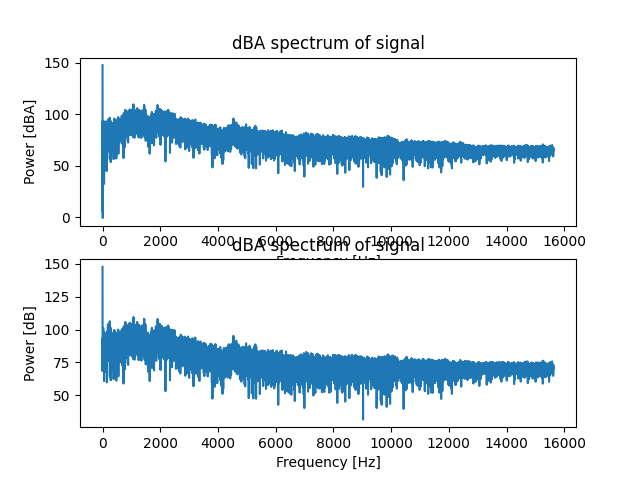
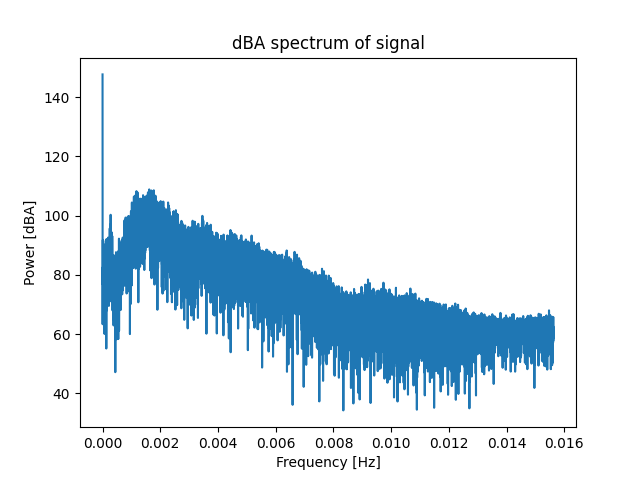
endringer

diff --git a/raspi_analyze_copy.py b/raspi_analyze_copy.py
@@ -253,6 +253,21 @@ def kalibrering(kalibreringsverdi, freq_vec, verdi):
    
     return verdi_kalib
 
+p0 = 20*10^-6
+def todB_num(verdi_rfft):
+    num_dB = (20*np.log10(np.abs(verdi_rfft)))
+   
+    return num_dB
+
+
+
+def ekvivalentnivå_mv0(måling_data, v0):
+    sum = 0
+    for i in range(0, len(måling_data)):
+        sum += (måling_data[i]/v0)**2
+    L = 10*np.log(1/len(måling_data) + sum)
+    return float(L)
+
 
 #plt.subplot(2, 1, 2)
 y = dBA(freq, spectrum, dBA_dict)
@@ -263,6 +278,7 @@ def plottName(name):
     return my_path
 # Figures out the absolute path for you in case your working directory moves around.
 
+'''
 plt.subplot(2, 1, 1)
 plt.title("dBA spectrum of signal")
 plt.xlabel("Frequency [Hz]")
@@ -279,6 +295,100 @@ plt.plot(freq, y2) # get the power spectrum
 plt.savefig(plottName('graph1'))
 
 plt.show()
+'''
+
+v0 = 0.02
+'''
+#antall_filer = 2
+#liste_filer = ['Lydfiler/lastebil.bin', 'Lydfiler/bil.bin']
+
+
+def plott(antall_filer, liste_filer):
+    tid = 0
+    tid_vec = []
+    y_db = 0
+    L = 0
+    L_eq = []
+    dBA_num = 0
+    for n in range(0, antall_filer):
+        print(liste_filer[n])
+        sample_period, data = raspi_import(liste_filer[n])
+        num_of_samples = data.shape[0]
+        freq = np.fft.rfftfreq(n=num_of_samples, d=sample_period)
+        spectrum = np.fft.rfft(data, axis=0) 
+        dBA_num = dBA(freq, spectrum, dBA_dict)
+        plt.title("dBA spectrum of signal")
+        plt.xlabel("Frequency [Hz]")
+        plt.ylabel("Power [dBA]")
+        plt.plot(freq, dBA_num)
+        plt.savefig(plottName('graph' + str(n)))
+        plt.show()
+        
+        #yy, yh = butter_bandpass_filter(x, 200, 800, 31250, order=8)
+        #specty= np.fft.rfft(yh, axis=0) 
+        T = num_of_samples * sample_period
+        L = ekvivalentnivå_mv0(data, v0)
+        
+        #L_kalib = kalibrering(2, freq, spectrum, dBA_dict)
+        tid += 1
+        tid_vec.append(tid)
+
+        print(L)
+        #a = plt.stem(tid, L)
+        L_eq.append(L)
+    
+    plt.plot(tid_vec, L_eq)
+    plt.show()
+
+plott(2, liste_filer) 
+
+'''
+directory = 'Lydfiler/'
+antall_filer = 0
+
+for filename in os.listdir(directory):
+    if filename.endswith(".bin"):
+        antall_filer += 1
+        tid = 0
+        tid_vec = []
+        y_db = 0
+        #L = 0
+        #L_eq = []
+        dBA_num = 0
+        
+        print(os.path.join("./Lydfiler", filename))
+        sample_period, data = raspi_import(os.path.join("./Lydfiler", filename))
+        num_of_samples = data.shape[0]
+        freq = np.fft.rfftfreq(n=num_of_samples, d=sample_period)
+        spectrum = np.fft.rfft(data, axis=0) 
+        dBA_num = dBA(freq, spectrum, dBA_dict)
+        plt.title("dBA spectrum of signal")
+        plt.xlabel("Frequency [Hz]")
+        plt.ylabel("Power [dBA]")
+        plt.plot(freq, dBA_num)
+        plt.savefig(plottName('graph' + str(antall_filer)))
+        plt.show()
+    
+        #yy, yh = butter_bandpass_filter(x, 200, 800, 31250, order=8)
+        #specty= np.fft.rfft(yh, axis=0) 
+        T = num_of_samples * sample_period
+        #L = ekvivalentnivå_mv0(data, v0)
+        
+        #L_kalib = kalibrering(2, freq, spectrum, dBA_dict)
+        tid += 1
+        tid_vec.append(tid)
+
+            #print(L)
+            #a = plt.stem(tid, L)
+           # L_eq.append(L)
+        
+       # plt.plot(tid_vec, L_eq)
+        plt.show()
+        continue
+    else:
+        continue
+
+
 
 
 

diff --git a/test_plott.py b/test_plott.py
@@ -10,7 +10,7 @@ from scipy import signal
 import scipy.signal as signal
 from scipy.signal import butter, lfilter, freqz
 import os
-import acoustics 
+#import acoustics 
 
 def raspi_import(path, channels=1):
     """
